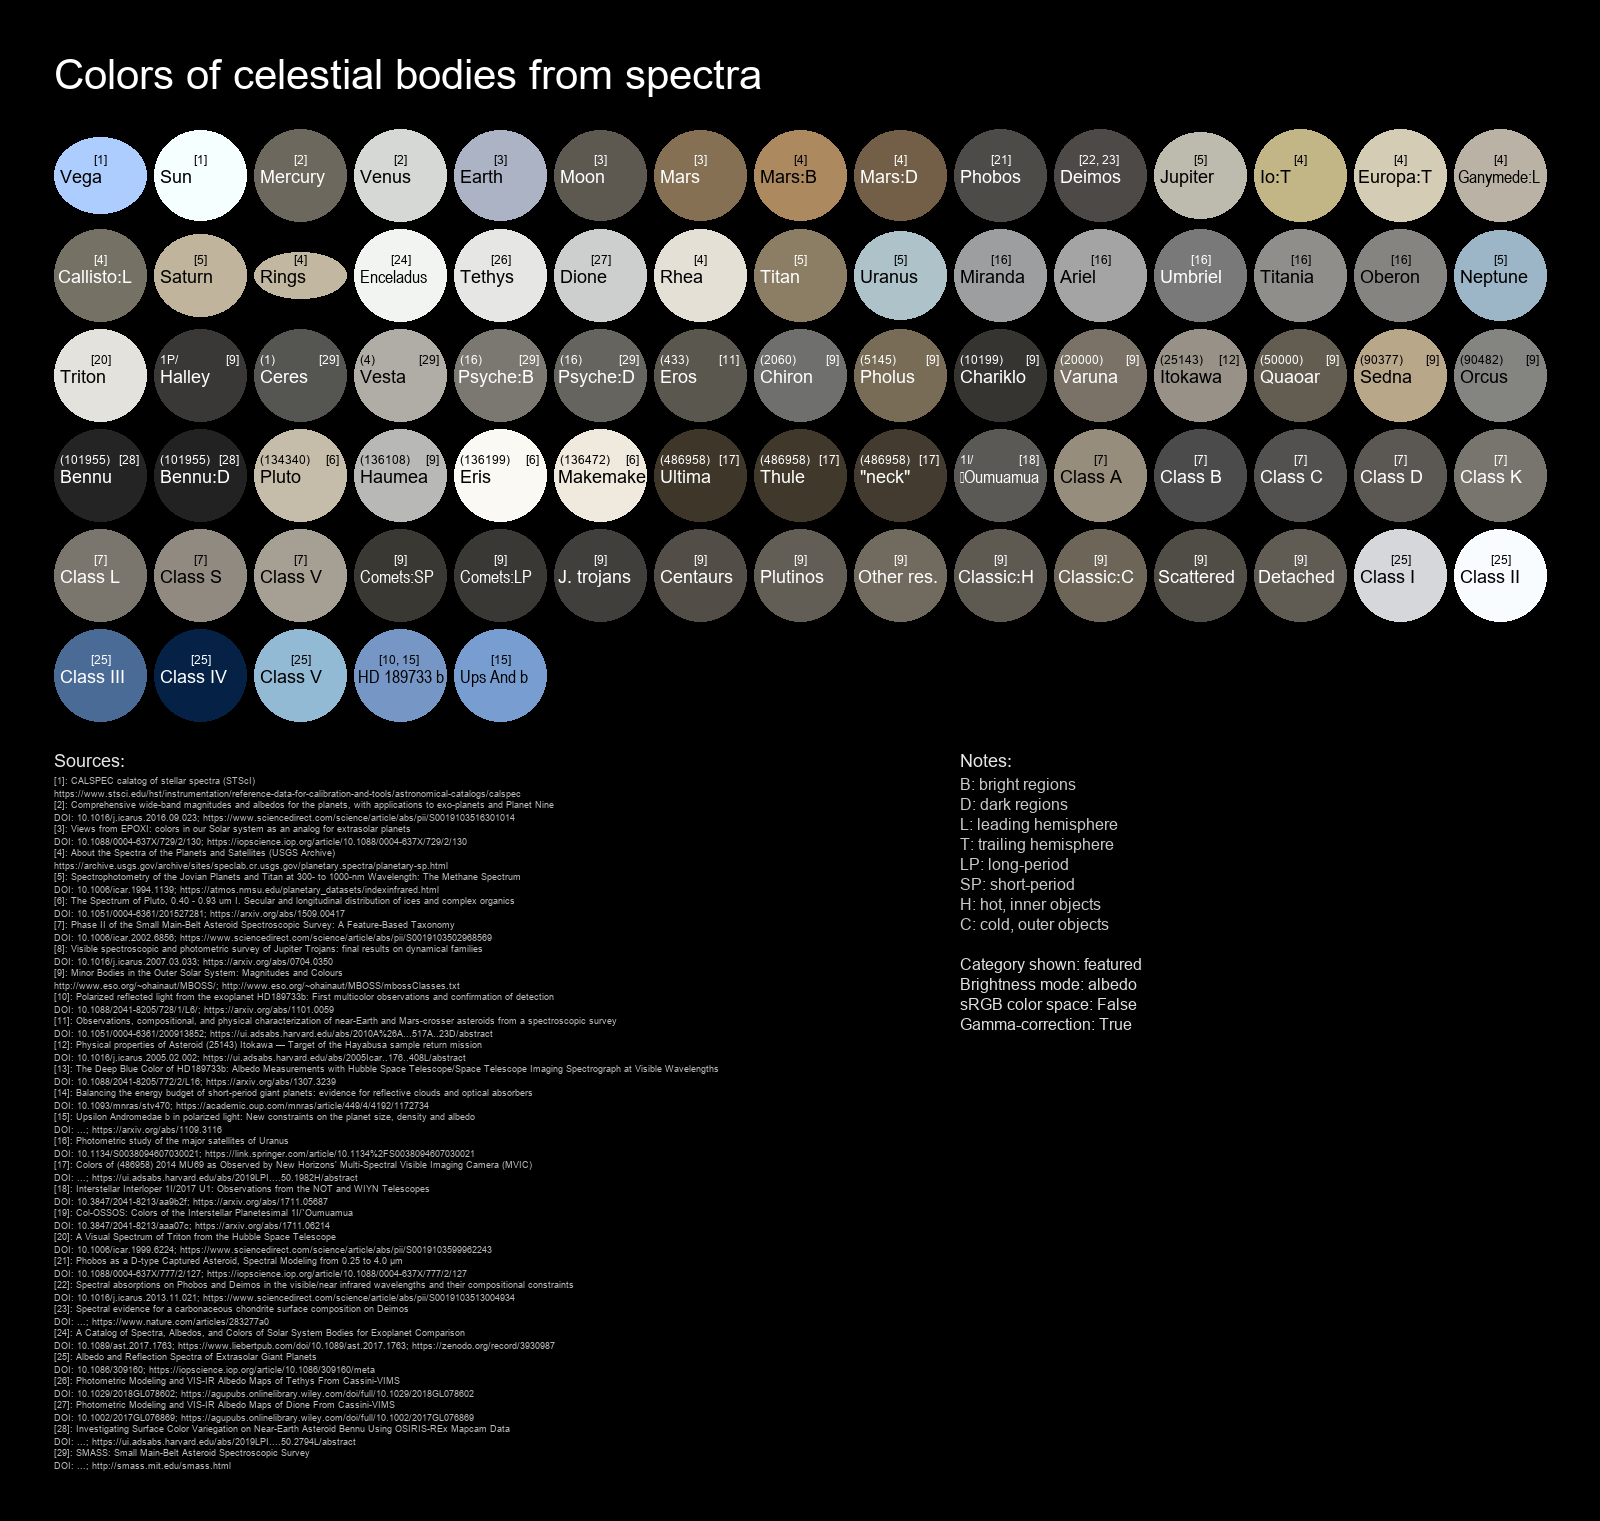
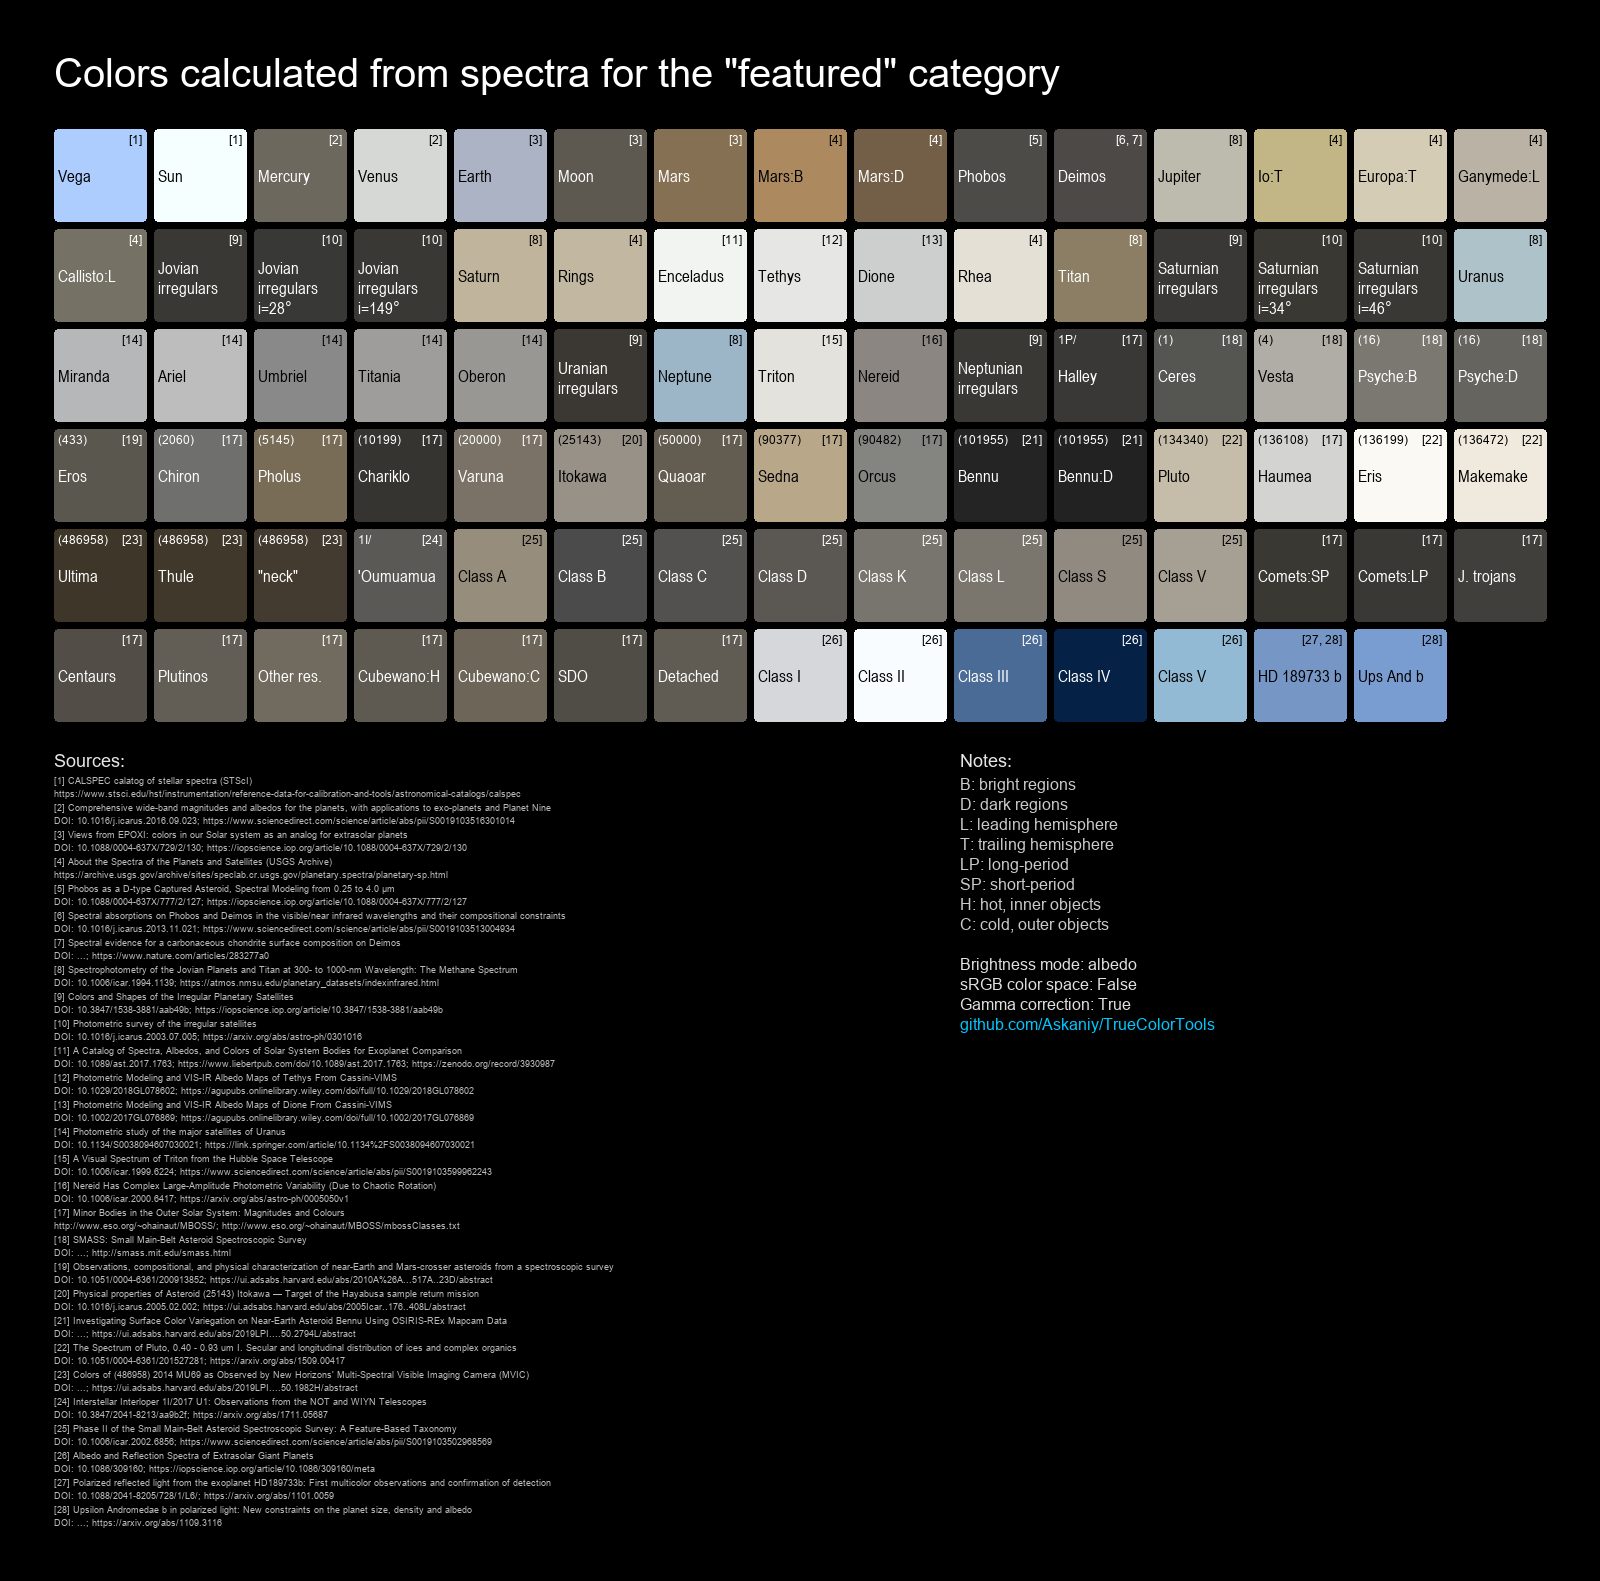
Updated tables, sRGB+albedo bug fix
- albedo 0.04 for irregular moons
- rounded edges

diff --git a/Scripts/database.py b/Scripts/database.py
@@ -384,13 +384,13 @@ objects = {
 		"filters": "Landolt", "indices": {"B-V": 0.73, "V-R": 0.46}, "sun": True
 		},
 	"Jovian irregulars|30": {"tags": ["featured", "solar_system", "class", "moon", "jovian_system", "irregular"],
-		"filters": "Landolt", "indices": {"B-V": 0.75, "V-R": 0.44}, "sun": True
+		"filters": "Landolt", "indices": {"B-V": 0.75, "V-R": 0.44}, "sun": True, "albedo": 0.04 # estimation
 		},
 	"Jovian irregulars i=28°|33": {"tags": ["featured", "solar_system", "class", "moon", "jovian_system", "irregular"],
-		"filters": "Landolt", "indices": {"B-V": 0.66, "V-R": 0.36}, "sun": True
+		"filters": "Landolt", "indices": {"B-V": 0.66, "V-R": 0.36}, "sun": True, "albedo": 0.04 # estimation
 		},
 	"Jovian irregulars i=149°|33": {"tags": ["featured", "solar_system", "class", "moon", "jovian_system", "irregular"],
-		"filters": "Landolt", "indices": {"B-V": 0.75, "V-R": 0.41}, "sun": True
+		"filters": "Landolt", "indices": {"B-V": 0.75, "V-R": 0.41}, "sun": True, "albedo": 0.04 # estimation
 		},
     "Saturn|2": {"tags": ["solar_system", "planet", "saturnian_system"],
 		"nm": [360, 436, 549, 641, 700, 798, 900], "br": [0.203, 0.339, 0.499, 0.646, 0.568, 0.543, 0.423]
@@ -575,13 +575,13 @@ objects = {
 		"filters": "Landolt", "indices": {"B-R": 1.37}, "sun": True
 		},
 	"Saturnian irregulars|30": {"tags": ["featured", "solar_system", "class", "moon", "saturnian_system", "irregular"],
-		"filters": "Landolt", "indices": {"B-V": 0.69, "V-R": 0.44}, "sun": True
+		"filters": "Landolt", "indices": {"B-V": 0.69, "V-R": 0.44}, "sun": True, "albedo": 0.04 # estimation
 		},
 	"Saturnian irregulars i=34°|33": {"tags": ["featured", "solar_system", "class", "moon", "saturnian_system", "irregular"],
-		"filters": "Landolt", "indices": {"B-V": 0.91, "V-R": 0.48}, "sun": True
+		"filters": "Landolt", "indices": {"B-V": 0.91, "V-R": 0.48}, "sun": True, "albedo": 0.04 # estimation
 		},
 	"Saturnian irregulars i=46°|33": {"tags": ["featured", "solar_system", "class", "moon", "saturnian_system", "irregular"],
-		"filters": "Landolt", "indices": {"B-V": 0.79, "V-R": 0.51}, "sun": True
+		"filters": "Landolt", "indices": {"B-V": 0.79, "V-R": 0.51}, "sun": True, "albedo": 0.04 # estimation
 		},
     "Uranus|2": {"tags": ["solar_system", "planet", "uranian_system"],
 		"nm": [360, 436, 549, 641, 700, 798, 900], "br": [0.502, 0.561, 0.488, 0.264, 0.202, 0.089, 0.079]
@@ -603,19 +603,19 @@ objects = {
         "albedo": True
     	},
 	"Miranda|16": {"tags": ["featured", "solar_system", "moon", "uranian_system", "regular"],
-		"nm": [250, 410, 480, 560, 750, 910], "br": [0.51, 0.49, 0.48, 0.47, 0.46, 0.45], "albedo": 0.34
+		"nm": [250, 410, 480, 560, 750, 910], "br": [0.51, 0.49, 0.48, 0.47, 0.46, 0.45], "albedo": True # spherical is 0.34
 		},
 	"Ariel|16": {"tags": ["featured", "solar_system", "moon", "uranian_system", "regular"],
-		"nm": [250, 410, 480, 560, 750, 910], "br": [0.50, 0.51, 0.51, 0.51, 0.51, 0.52], "albedo": 0.37
+		"nm": [250, 410, 480, 560, 750, 910], "br": [0.50, 0.51, 0.51, 0.51, 0.51, 0.52], "albedo": True # spherical is 0.37
 		},
 	"Umbriel|16": {"tags": ["featured", "solar_system", "moon", "uranian_system", "regular"],
-		"nm": [250, 410, 480, 560, 750, 910], "br": [0.25, 0.25, 0.25, 0.25, 0.26, 0.26], "albedo": 0.19
+		"nm": [250, 410, 480, 560, 750, 910], "br": [0.25, 0.25, 0.25, 0.25, 0.26, 0.26], "albedo": True # spherical is 0.19
 		},
 	"Titania|16": {"tags": ["featured", "solar_system", "moon", "uranian_system", "regular"],
-		"nm": [250, 410, 480, 560, 750, 910], "br": [0.30, 0.32, 0.33, 0.34, 0.36, 0.37], "albedo": 0.27
+		"nm": [250, 410, 480, 560, 750, 910], "br": [0.30, 0.32, 0.33, 0.34, 0.36, 0.37], "albedo": True # spherical is 0.27
 		},
 	"Oberon|16": {"tags": ["featured", "solar_system", "moon", "uranian_system", "regular"],
-		"nm": [250, 410, 480, 560, 750, 910], "br": [0.27, 0.29, 0.30, 0.31, 0.33, 0.35], "albedo": 0.23
+		"nm": [250, 410, 480, 560, 750, 910], "br": [0.27, 0.29, 0.30, 0.31, 0.33, 0.35], "albedo": True # spherical is 0.23
 		},
 	"Caliban|30": {"tags": ["solar_system", "moon", "uranian_system", "irregular"],
 		"filters": "Landolt", "indices": {"B-V": 0.81, "V-R": 0.47}, "sun": True
@@ -633,7 +633,7 @@ objects = {
 		"filters": "Landolt", "indices": {"B-V": 0.97, "V-R": 0.66}, "sun": True
 		},
 	"Uranian irregulars|30": {"tags": ["featured", "solar_system", "class", "moon", "uranian_system", "irregular"],
-		"filters": "Landolt", "indices": {"B-V": 0.84, "V-R": 0.53}, "sun": True
+		"filters": "Landolt", "indices": {"B-V": 0.84, "V-R": 0.53}, "sun": True, "albedo": 0.04 # estimation
 		},
     "Neptune|2": {"tags": ["solar_system", "planet"],
 		"nm": [360, 436, 549, 641, 700, 798, 900], "br": [0.578, 0.562, 0.442, 0.226, 0.181, 0.072, 0.067]
@@ -669,7 +669,7 @@ objects = {
 		"filters": "Landolt", "bands": ["U", "B", "V", "R", "I"], "br": [0.90, 0.93, 1, 1.13, 0.99], "albedo": 0.24 # https://arxiv.org/abs/1601.02395
 		},
 	"Neptunian irregulars|30": {"tags": ["featured", "solar_system", "class", "moon", "neptunian_system", "irregular"],
-		"filters": "Landolt", "indices": {"B-V": 0.77, "V-R": 0.50}, "sun": True
+		"filters": "Landolt", "indices": {"B-V": 0.77, "V-R": 0.50}, "sun": True, "albedo": 0.04 # estimation
 		},
     "C/1995O1-HB|9": {"tags": ["solar_system", "minor_body", "comet", "comet-lp"],
 		"filters": "Landolt", "indices": {"B-V": 0.810, "V-R": 0.390}, "sun": True

diff --git a/Scripts/TCT.py b/Scripts/TCT.py
@@ -8,7 +8,7 @@ import calculations as calc
 import database as db
 import strings as tr
 
-lang = user.lang("en") # ReadMe -> FAQ -> Localization
+lang = user.lang("ru") # ReadMe -> FAQ -> Localization
 
 
 def tag_list():
@@ -237,7 +237,7 @@ T4_col1 = [
     [sg.Text(tr.gui_temp[lang], size=(15, 1), key="T4_temp"), sg.Slider(range=(0, 20000), default_value=0, resolution=100, orientation="h", size=slider_size, enable_events=True, key="T4_slider1")],
     [sg.Text(tr.gui_velocity[lang], size=(15, 1), key="T4_velocity"), sg.Slider(range=(-1, 1), default_value=0, resolution=0.01, orientation="h", size=slider_size, enable_events=True, key="T4_slider2")],
     [sg.Text(tr.gui_vII[lang], size=(15, 1), key="T4_vII"), sg.Slider(range=(0, 1), default_value=0, resolution=0.01, orientation="h", size=slider_size, enable_events=True, key="T4_slider3")],
-    [sg.Text(tr.gui_scale[lang], size=(15, 1), text_color=T4_text_colors[0], key="T4_scale"), sg.Slider(range=(-10, 10), default_value=0, resolution=0.1, orientation="h", size=slider_size, enable_events=True, disabled=True, key="T4_slider4")],
+    [sg.Text(tr.gui_scale[lang], size=(15, 1), text_color=T4_text_colors[0], key="T4_scale"), sg.Slider(range=(-10, 10), default_value=0, resolution=0.01, orientation="h", size=slider_size, enable_events=True, disabled=True, key="T4_slider4")],
     [sg.T("")],
     [sg.HorizontalSeparator()],
     [sg.Checkbox(tr.gui_irr[lang], size=(20, 1), enable_events=True, default=False, key="T4_irr"),
@@ -696,7 +696,7 @@ while True:
             # Layout
             T3_num = 15 # objects per row
             T3_r = 46 # half a side of a square
-            T3_rr = 5 # rounding radius
+            T3_rr = 4 # rounding radius
             T3_ar = T3_r-4 # active space
             if T3_l < 11:
                 T3_w = 1200

diff --git a/Scripts/calculations.py b/Scripts/calculations.py
@@ -210,6 +210,7 @@ def to_rgb(spectrum, mode="chromaticity", inp_bit=None, exp_bit=None, rnd=0, alb
     if srgb:
         xyz = np.sum(spectrum[:, np.newaxis] * cmf.xyz, axis=0)
         rgb = xyz_to_sRGB(xyz)
+        rgb = rgb / rgb[1] * spectrum[38] # xyz cmf is not normalized, to result was overexposed; spectrum[38] is 550 nm
     else:
         rgb = np.sum(spectrum[:, np.newaxis] * cmf.rgb, axis=0)
     if mode == "albedo 0.5":
